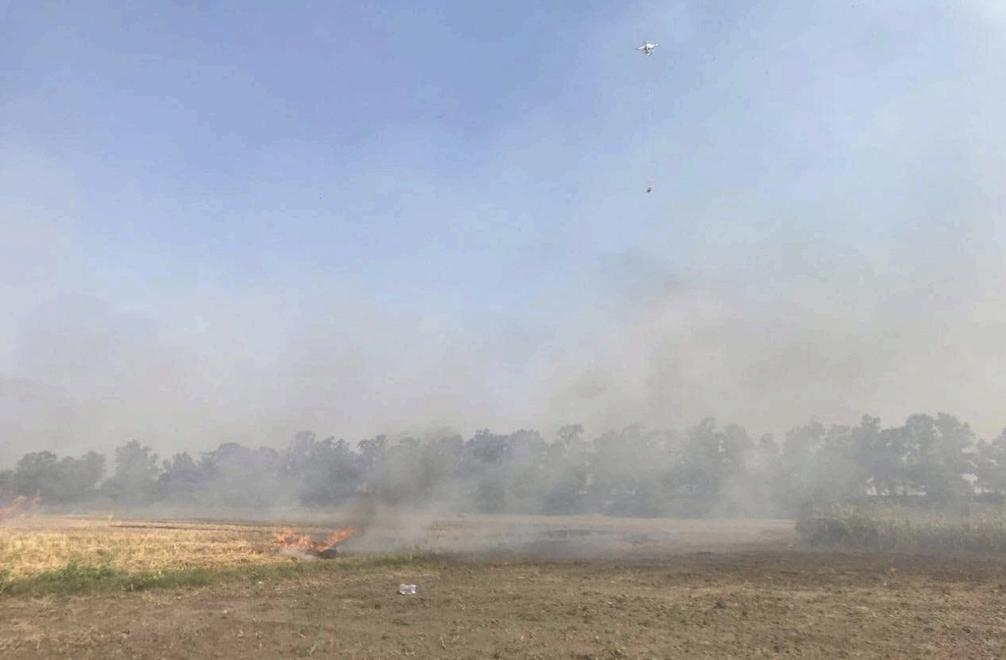
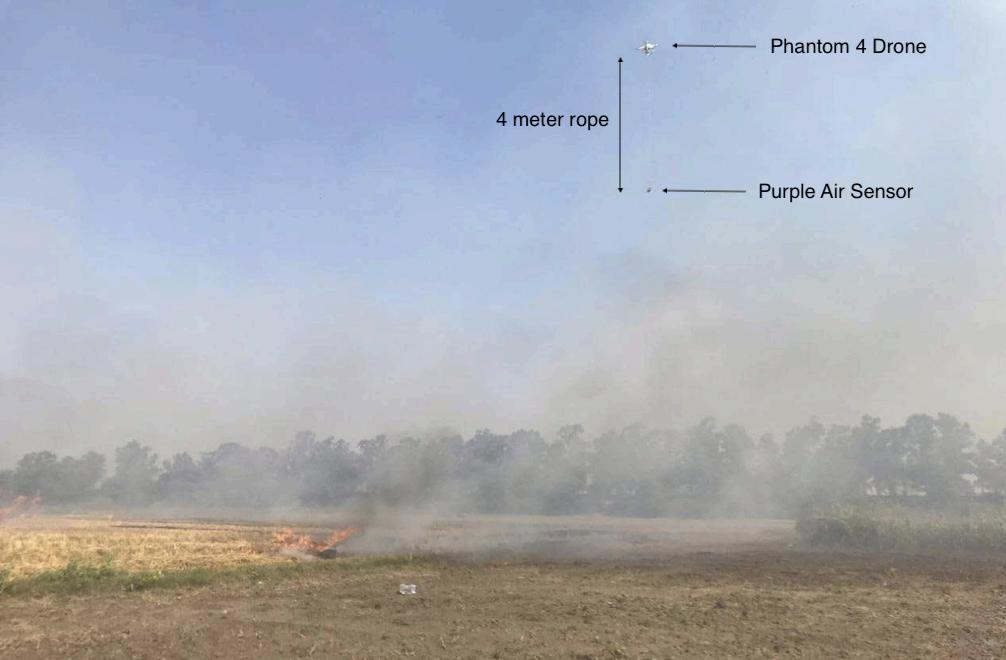
updates

Changed region(s): [[0.6471, 0.2727, 0.9245, 0.303], [0.6779, 0.0606, 0.9245, 0.0909], [0.493, 0.1515, 0.6163, 0.2121]]

diff --git a/_projects/4_project.md b/_projects/4_project.md
@@ -10,12 +10,29 @@ category: work
 I worked as a Researcher with <a href="https://www.ise.fraunhofer.de/en/business-areas/photovoltaics/iii-v-and-concentrator-photovoltaics.html" target="_blank">Dr. Pawan Gupta</a> to evaluate the efficacy of low-cost air quality sensor as a mobile platform to collect PM-2.5 data in urban areas. 
 
 <span style="font-size: 17px;"><b>Problem :</b></span>
-The highly accurate pollution monitoring sensors installed by CPCB in urban cities costs upard of Rs. 1 crore and are static in nature. So, it becomes tough to accurately detect the soruces of pollution in an urban areas.
+- India has one air quality monitoring station for every 7 million people while China has over eight times that number.
+- India has 9 cities in the world’s 10 most polluted cities.
+- Only just about 5% of our census towns are monitored now.
+- A new automated static air quality monitoring system will require approximately Rs. 1.8 crore to set up.
+
+<div class="row justify-content-sm-center">
+
+    <div class="col-sm-4 mt-3 mt-md-0">
+        {% include figure.html path="assets/img/HT-AQ.jpeg" title="example image" class="img-fluid rounded z-depth-1" %}
+    </div>
+</div>
+<div class="caption">
+Air Quality Monitoring station density globally (Source - Hindustan Times)</div>
 
 <span style="font-size: 17px;"><b>Solution :</b></span>
-By using cars as a mobile monitoring platform and integrating low-cost air quality sensors on it, it is possible to do spatio-tempotal sampling of PM-2.5 levels, to more accurately detect the sources of pollution in an urban area.
 
-<span style="font-size: 17px;"><b>Contribution :</b></span>
+A low-cost alternative for Air Quality Monitoring in India :
+- Till now Air Quality Monitoring is done with costly static sensors only, which are distributed very sparsely.
+- Low-cost Air Quality sensors makes it possible to deploy them at scale by integrating them on vehicles, UAVs and get fine-grained AQ data in real-time.
+- This will help us to better analyze the data and could be very crucial to locate pollution hotspots and predict future AQ levels.
+- For Urban Cities, by using cars as a mobile air quality monitoring platform and integrating low-cost air quality sensors on it, it is possible to do spatio-tempotal sampling of PM-2.5 levels, to more accurately detect the sources of pollution in an urban area.
+
+<span style="font-size: 17px;"><b> Mobile Air Quality Monitoring Experiment in Jaipur city :</b></span>
 
 - For our study, we used Diwali festival as the occasion to collect data with our mobile moitoring platform. We were focused and collected data with our mobile platform, pre, during and post fire cracker burning activities during Diwali, to effectively monitor the variation and impact of fire crackers on the air quality of Jaipur city.
 
@@ -25,32 +42,29 @@ By using cars as a mobile monitoring platform and integrating low-cost air quali
 
 <div class="row"> 
 
-    <div class="col-sm mt-3 mt-md-0">
-        {% include figure.html path="assets/img/car-diwali.jpeg" title="example image" class="img-fluid rounded z-depth-1" %}
-    </div>
-    <div class="col-sm mt-3 mt-md-0">
+    <div class="col-sm-8 mt-3 mt-md-0">
         {% include figure.html path="assets/img/Sensor-diwali.jpeg" title="example image" class="img-fluid rounded z-depth-1" %}
     </div>
-
+    <div class="col-sm mt-3 mt-md-0">
+        {% include figure.html path="assets/img/data-stored-rpi.jpeg" title="example image" class="img-fluid rounded z-depth-1" %}
+    </div>
 </div>
 <div class="caption">
-    On the left, a road goes through a tunnel. Right, in another hipster photoshoot, a lumberjack grasps a handful of pine needles.
+    On the left, air quality sensor (OPC-R1 and Purple Air) used for mobile monitoring placed on top of the car. Right, inside of the data fusion module with air quality sensor, GPS, RaspberryPi.
 </div>
 
 - After collecting the data for a week period, we observed significantly lower PM2.5 in Jaipur during 2020 Diwali compared to previous years due to favourable weather conditions and firecracker ban.
 
 <div class="row"> 
-
-    <div class="col-sm mt-3 mt-md-0">
-        {% include figure.html path="assets/img/data-stored-rpi.jpeg" title="example image" class="img-fluid rounded z-depth-1" %}
-    </div>
-    <div class="col-sm mt-3 mt-md-0">
+    <div class="col-sm-8 mt-3 mt-md-0">
         {% include figure.html path="assets/img/mobile-monitoring-map.jpeg" title="example image" class="img-fluid rounded z-depth-1" %}
     </div>
-
+        <div class="col-sm mt-3 mt-md-0">
+        {% include figure.html path="assets/img/car-diwali.jpeg" title="example image" class="img-fluid rounded z-depth-1" %}
+    </div>
 </div>
 <div class="caption">
-    On the left, a road goes through a tunnel. Right, in another hipster photoshoot, a lumberjack grasps a handful of pine needles.
+    On the left, script running on RaspberryPi storing PM2.5 and GPS data in a CSV file. Right, data collected by performing mobile air quality monitoring on 3 different Paths (A, B, C) of Jaipur during different days and time.
 </div>
 
 - With mobile air quality monitoring, location of a pollution hotspot was also identified in Jaipur city.
@@ -68,7 +82,7 @@ By using cars as a mobile monitoring platform and integrating low-cost air quali
     </div>
 </div>
 <div class="caption">
-    On the left, a road goes through a tunnel. Right, in another hipster photoshoot, a lumberjack grasps a handful of pine needles.
+    On the left, Hotspot (construction site of a flyover) located by mobile monitoring experiment. Middle, Time-series plot of PM2.5 concentrations observed by performing mobile monitoring on 3 different Path. Right, Purple Air sensor data collocation results against a reference monitor (Shastri Nagar station) in Jaipur.
 </div>
 
 - We also studied long-term (2000–2020) aerosol optical depth of Jaipur city and Observed a 29% increase in aerosol optical depth of Jaipur, but it was found to be significantly
@@ -78,7 +92,7 @@ lower than Delhi.
 
 <div class="row"> 
 
-    <div class="col-sm mt-3 mt-md-0">
+    <div class="col-sm-8 mt-3 mt-md-0">
         {% include figure.html path="assets/img/20yr-AOD.jpeg" title="example image" class="img-fluid rounded z-depth-1" %}
     </div>
     <div class="col-sm mt-3 mt-md-0">
@@ -87,7 +101,9 @@ lower than Delhi.
 
 </div>
 <div class="caption">
-    On the left, a road goes through a tunnel. Right, in another hipster photoshoot, a lumberjack grasps a handful of pine needles.
+    On the left, a) Mean aerosol optical depth (2000-2020) derived from two MODIS sensors over India. b) Trends in AODs over the same period for Delhi and Jaipur. c) Annual mean PM2.5 trends (2017-2020) in two cities. Right, Impact of aerosol transport over Jaipur during 2020 Diwali week observed from VIIRS sensor.
+
+
 </div>
 
 <span style="font-size: 17px;"><b>Project Supervisor :</b></span>

diff --git a/_projects/3_project.md b/_projects/3_project.md
@@ -15,7 +15,7 @@ Farmers in the state of Punjab and Haryana burn the stubble and this bruning lea
 <span style="font-size: 17px;"><b>Solution :</b></span>
 If authorities have more real-time data on Stubble bunring and its sites, they can take much more effective action to limit its spread and control it.
 
-<span style="font-size: 17px;"><b>Contribution :</b></span>
+<span style="font-size: 17px;"><b>1.) Drone Farm Fire Monitoring :</b></span>
 
 - During our study, for collecting the PM-2.5 data I integrated low-cost Purple air (Plantower PMS5003) and Alphasense OPC-R1 sensors on a Phantom 4 drone, and flew the drone over a farm fire site that was happening in Karnal district in Haryana, India. 
 
@@ -32,8 +32,7 @@ If authorities have more real-time data on Stubble bunring and its sites, they c
     </div>
 </div>
 <div class="caption">
-    On the left, a road goes through a tunnel. Right, in another hipster photoshoot, a lumberjack grasps a handful of pine needles.
-</div>
+Phantom 4 drone with Purple Air sensor suspended to it by a rope and flying over a farm fire site to collect data.</div>
 
 - We observed significant change in PM-2.5 values before, during and after the fire, with a clear spike in PM-2.5 values observed during the fire. We also tried to compare our results from the sensor integrated on drone to the data taken by the Satellite at 1:30 pm. 
 
@@ -50,7 +49,7 @@ If authorities have more real-time data on Stubble bunring and its sites, they c
     </div>
 </div>
 <div class="caption">
-    On the left, a road goes through a tunnel. Right, in another hipster photoshoot, a lumberjack grasps a handful of pine needles.
+    On the left, the farm site Pre-Fire. Middle, the farm site During-Fire. Right, the farm site Post-Fire.
 </div>
 
 <div class="row"> 
@@ -64,17 +63,65 @@ If authorities have more real-time data on Stubble bunring and its sites, they c
 
 </div>
 <div class="caption">
-    On the left, a road goes through a tunnel. Right, in another hipster photoshoot, a lumberjack grasps a handful of pine needles.
+    On the left, the two farm sites used for the experiment. Right, PM2.5 variation with the fire progress (Pre, During and Post). A spike in PM2.5 is visible during the fire phase.
 </div>
 
-- Similarly we also observed the impact of Farm fire on PM-2.5 values in rural areas by doing mobile sensing with car and clearly found spike in PM-2.5 values near fire sites. We also did mobile sensing in rural area with negligible farm fires, and interestingly found that rural areas where farm fires are very frequent, had significantly higher PM-2.5 concentrations, thus showing impact of farm fires in rural areas.
+<span style="font-size: 17px;"><b>2.) Farm Fire Impact on Villages :</b></span>
 
+- The imapct of stubble burning on the air quality is significant in the nearby villages where stubble is burned. To get more data on this, I went across the villages in Karnal where stubble burning was happening and collected PM2.5 data by performing mobile sensing with car. The collected data in these rural areas clearly showed a significant spike in PM-2.5 values. 
+
+<div class="row"> 
+
+    <div class="col-sm mt-3 mt-md-0">
+        {% include figure.html path="assets/img/farm1.jpeg" title="example image" class="img-fluid rounded z-depth-1" %}
+    </div>
+    <div class="col-sm mt-3 mt-md-0">
+        {% include figure.html path="assets/img/farm3.jpeg" title="example image" class="img-fluid rounded z-depth-1" %}
+    </div>
+
+</div>
+<div class="row"> 
+
+    <div class="col-sm mt-3 mt-md-0">
+        {% include figure.html path="assets/img/farm2.jpeg" title="example image" class="img-fluid rounded z-depth-1" %}
+    </div>
+    <div class="col-sm mt-3 mt-md-0">
+        {% include figure.html path="assets/img/farm4.jpeg" title="example image" class="img-fluid rounded z-depth-1" %}
+    </div>
+
+</div>
+<div class="caption">
+Some farm fire sites found while collecting the data.</div>
+
+<div class="row"> 
+
+    <div class="col-sm mt-3 mt-md-0">
+        {% include figure.html path="assets/img/rural_data2.jpeg" title="example image" class="img-fluid rounded z-depth-1" %}
+    </div>
+
+</div>
+<div class="caption">
+Data collected by mobile sensing near stubble burning sites. Significant spike observed in PM2.5 values near the 3 different sites. 
+</div>
+
+- I also did mobile sensing in rural area with negligible farm fires, and interestingly found that rural areas where farm fires are very frequent, had significantly higher PM-2.5 concentrations, thus showing impact of farm fires in rural areas.
+
+<div class="row"> 
+
+    <div class="col-sm mt-3 mt-md-0">
+        {% include figure.html path="assets/img/rural_data1.jpeg" title="example image" class="img-fluid rounded z-depth-1" %}
+    </div>
+
+</div>
+<div class="caption">
+Significantly lower PM2.5 values in rural area with less stubble burning on the right.
+</div>
 
 <span style="font-size: 17px;"><b>Project Supervisor :</b></span>
 <a href="https://www.ise.fraunhofer.de/en/about-us/staff-profiles/dimroth-frank.html" target="_blank"> Dr. Pawan Gupta</a> 
  <br>
 
-<a href="assets/pdf/example_pdf.pdf" target="_blank">Crop Burning pdf</a>
+<a href="assets/pdf/Crop-Burning.pdf" target="_blank">Crop Burning pdf</a>
 
 <span style="font-size: 17px;"><b>Drone Flight :</b></span>
 <a href="https://drive.google.com/drive/u/4/folders/1yQTbllgLPr3c9V7HNQWFJo04lzmBBcMy" target="_blank"> Live Drone Experiment Video</a> 

diff --git a/_projects/5_project.md b/_projects/5_project.md
@@ -34,7 +34,7 @@ During my internship, I primarily worked for studying methods that might help in
 
 </div>
 <div class="caption">
-    On the left, a road goes through a tunnel. Right, in another hipster photoshoot, a lumberjack grasps a handful of pine needles.
+    On the left, schematic diagram of the sample used for ELO method. Right, results of samples with different etching parameters taken with SAM.
 </div>
 
 - I worked on electrochemical deposition of Ni/Cu contacts on the very thin solar cell layer that is generated after ELO process. This contact deposition is done to make the μm thin solar cell layer stable and use the contacts for further characterisation. 
@@ -50,7 +50,7 @@ During my internship, I primarily worked for studying methods that might help in
 
 </div>
 <div class="caption">
-    On the left, a road goes through a tunnel. Right, in another hipster photoshoot, a lumberjack grasps a handful of pine needles.
+    On the left, sample dipped for electroplating process. Right, solar cell layer and substrate separated after ELO process.
 </div>
 
 - Experimented with different potential options for temporary substrates of solar cells, instead of conventional Ni/Cu plating. I found electrically conductive CU tape as a better alternative to the exisitng Ni/Cu plating in terms of both time and cost of processing. I experimented by pasting the tape on the solar cell layer material and annealing this sample. The results were comparable to Ni/Cu plating method. With this cheaper substrate, it became possible to quickly evalute new solar cells with different layer composition.
@@ -64,7 +64,7 @@ During my internship, I primarily worked for studying methods that might help in
    
 </div>
 <div class="caption">
-    This image can also have a caption. It's like magic.
+    Conductive Cu tape sample after ELO process done on it.
 </div>
 
 

diff --git a/_projects/6_project.md b/_projects/6_project.md
@@ -15,7 +15,7 @@ Drones with the capability of three dimensional motions, being able to easily fl
 <span style="font-size: 17px;"><b>Solution :</b></span>
 Solar technology in tandem with batteries has enormous potential for powering mobile devices. In this hybrid system, the use of solar is to keep on recharging the primary battery during day time. It is alothoguh very critical to keep the weight factor of the solar cells in mind.
 
-<span style="font-size: 17px;"><b>Contribution :</b></span>
+<span style="font-size: 17px;"><b>Development :</b></span>
 
 - Our aim was to make an EPS material frame, that is light weight and low-cost to perform rigorous testing with our design. Our wing area was approximately 167 square inches. We decided to laser cut a 6 by 6 inch solar cell into 2 by 2 inch solar cell. We could fit around 35 solar cells into each wing. 
 
